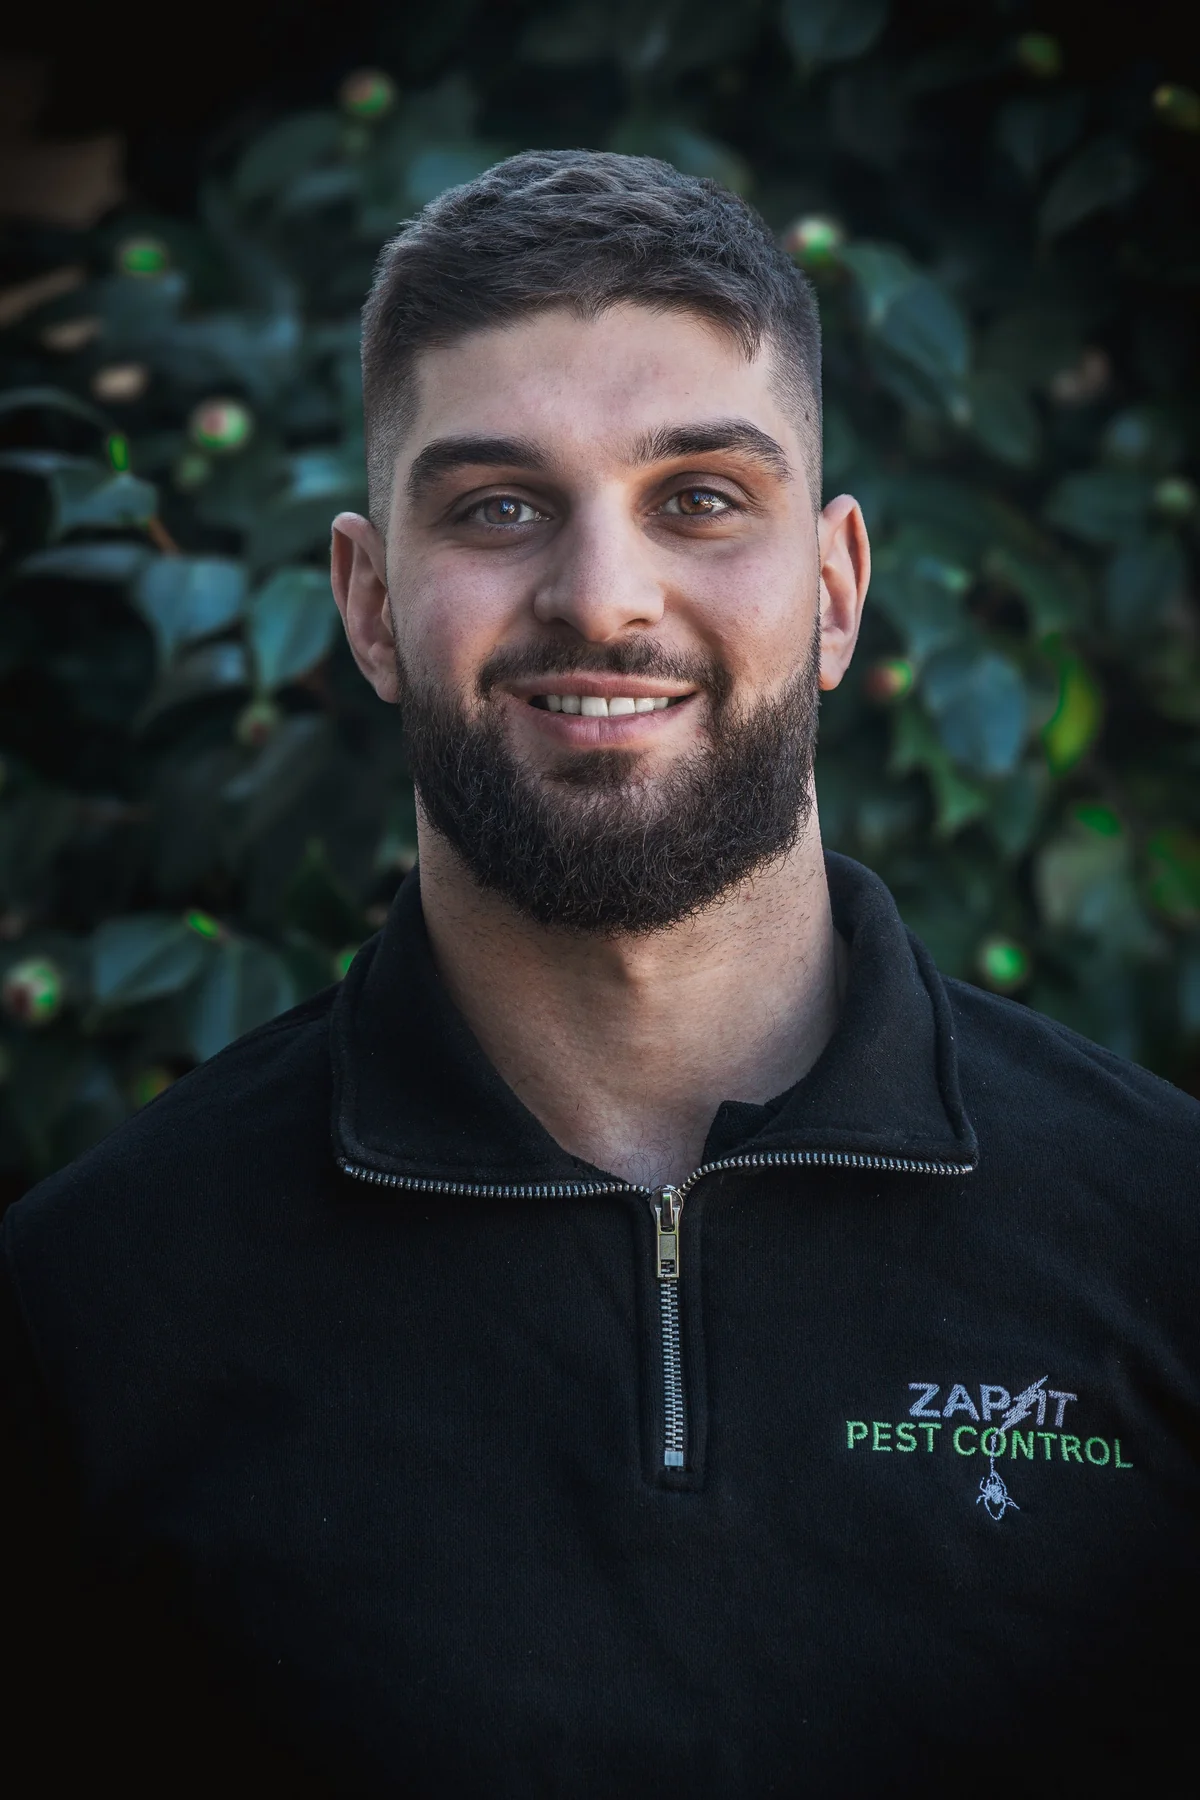
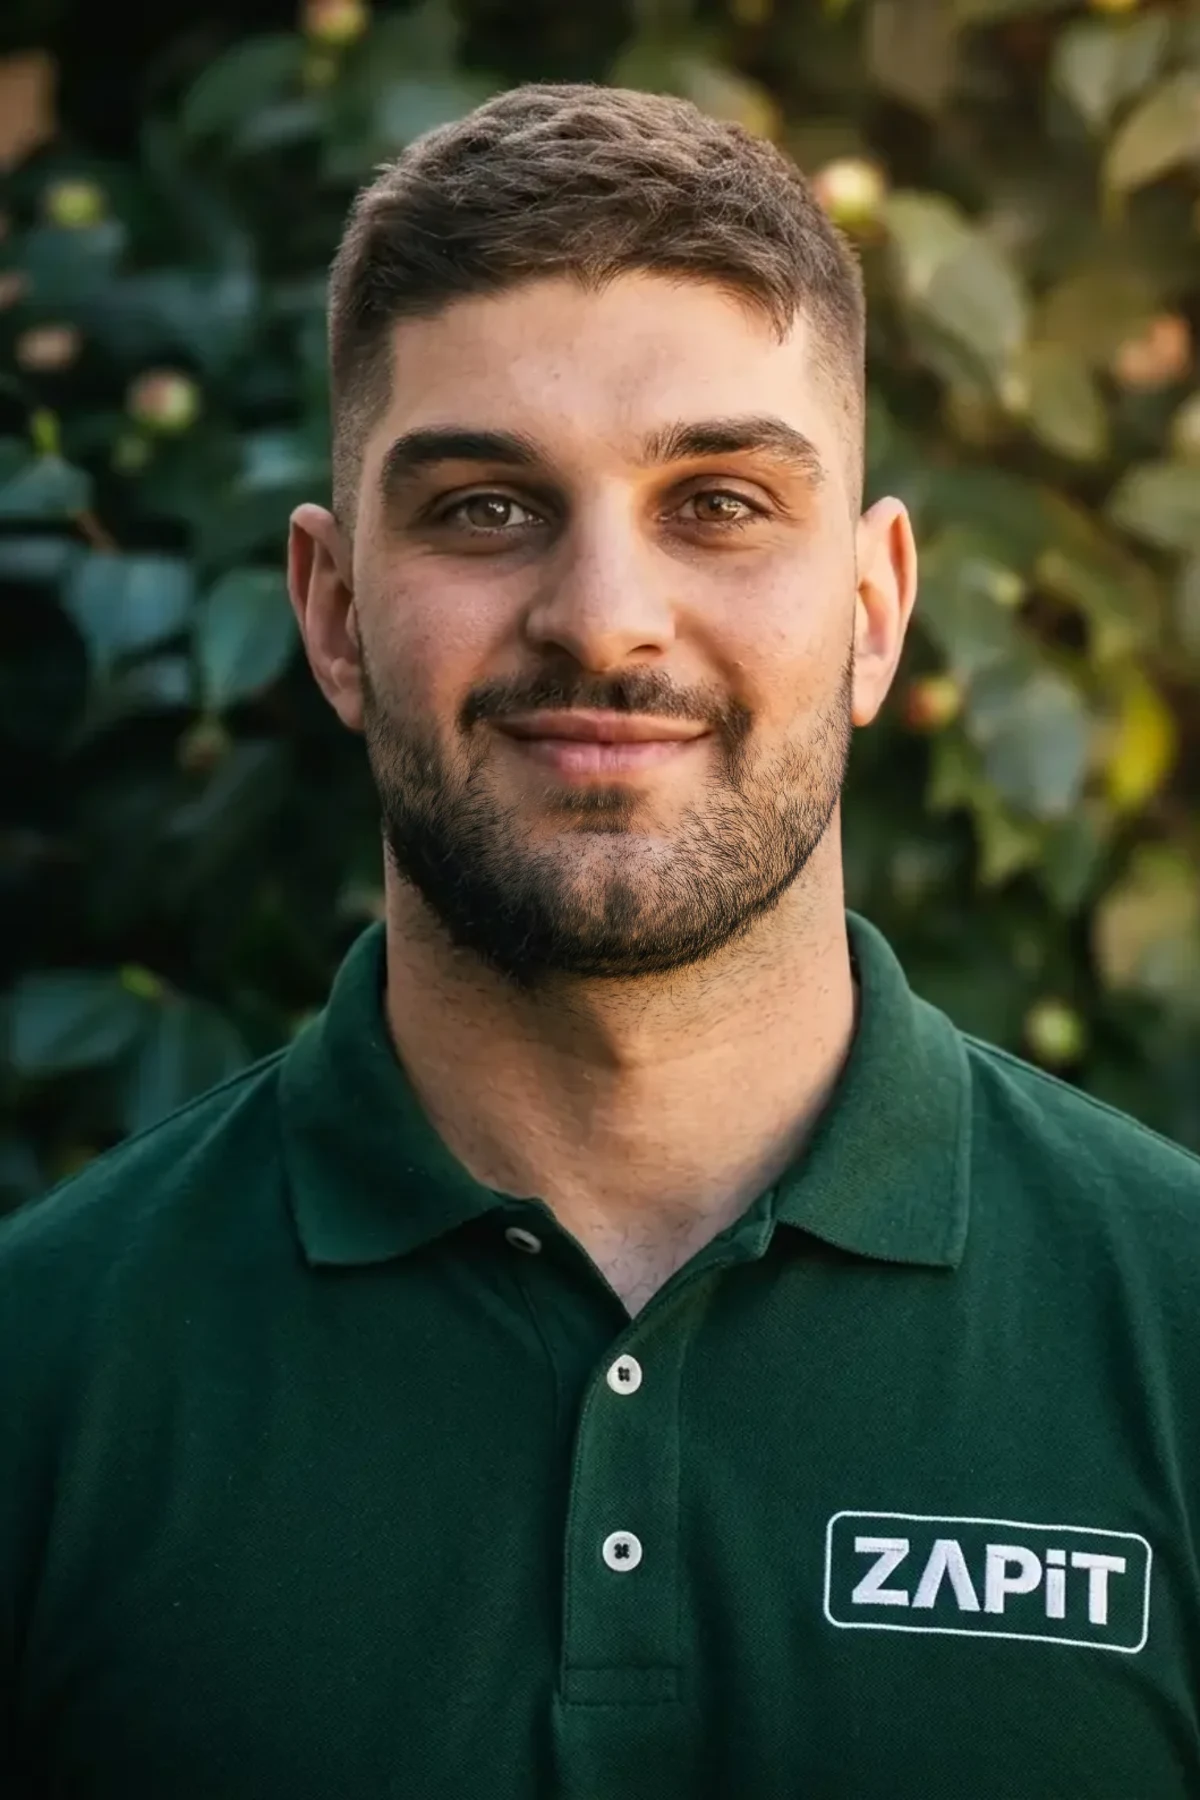
Commercial: new headshot, and he goes by Oz
Swaps the black quarter-zip portrait for the green ZAPIT polo shot, and
changes the displayed name from Zaydan to Oz — which is how he signs off
to customers already.

The photo is the original photograph with the beard trimmed to stubble.
Only the beard region was replaced (about 5% of the frame, masked from
the aligned difference between the two images); the skin, background,
polo and sensor grain are all the untouched original file. An earlier
attempt regenerated the whole frame and read as obviously synthetic.

Same 1200x1800 the component already declares, and 157KB against the
old 183KB.

Internal docs keep the legal name — this is display copy only.

diff --git a/src/app/commercial-pest-control/page.tsx b/src/app/commercial-pest-control/page.tsx
@@ -144,7 +144,7 @@ export default function CommercialPestControlPage() {
       {/* ===== 3. ZAYDAN PHOTO — desktop = framed card; mobile = full-bleed ===== */}
       <section className="w-full bg-[#2B2B2B] py-4 sm:py-6 lg:py-12">
         <div className="mx-auto w-full max-w-[640px] px-3 sm:px-4 lg:max-w-[560px] lg:px-6">
-          <Image src="/images/commercial/zaydan-photo.webp" alt="Zaydan, Commercial Consultant at Zapit" width={1200} height={1800} className="h-auto w-full lg:rounded-3xl lg:shadow-2xl" sizes="(min-width: 1024px) 560px, 100vw" />
+          <Image src="/images/commercial/zaydan-photo.webp" alt="Oz, Commercial Consultant at Zapit" width={1200} height={1800} className="h-auto w-full lg:rounded-3xl lg:shadow-2xl" sizes="(min-width: 1024px) 560px, 100vw" />
         </div>
       </section>
 
@@ -157,13 +157,13 @@ export default function CommercialPestControlPage() {
                 production). Surname deliberately omitted until the spelling is
                 confirmed — Osmanacic and Osmanagic both appear in our own records. */}
             <div className="mb-5">
-              <p className="text-[22px] font-bold leading-[28px] text-[#f8f5f2]">Zaydan</p>
+              <p className="text-[22px] font-bold leading-[28px] text-[#f8f5f2]">Oz</p>
               <p className="text-[16px] leading-[22px] text-[#f8f5f2]/85">Commercial Consultant</p>
               <p className="text-[16px] leading-[22px] text-[#f8f5f2]/85">Zapit</p>
             </div>
             <div className="space-y-4 text-[#f8f5f2]/90" style={{ fontSize: '15px', lineHeight: '22px', fontWeight: 400 }}>
               <p>
-                Hi, I&apos;m Zaydan, partner and business owner of Zapit. I manage our commercial
+                Hi, I&apos;m Oz, partner and business owner of Zapit. I manage our commercial
                 clients, focusing on consistent customer service and long-term pest risk management.
               </p>
               <p>
